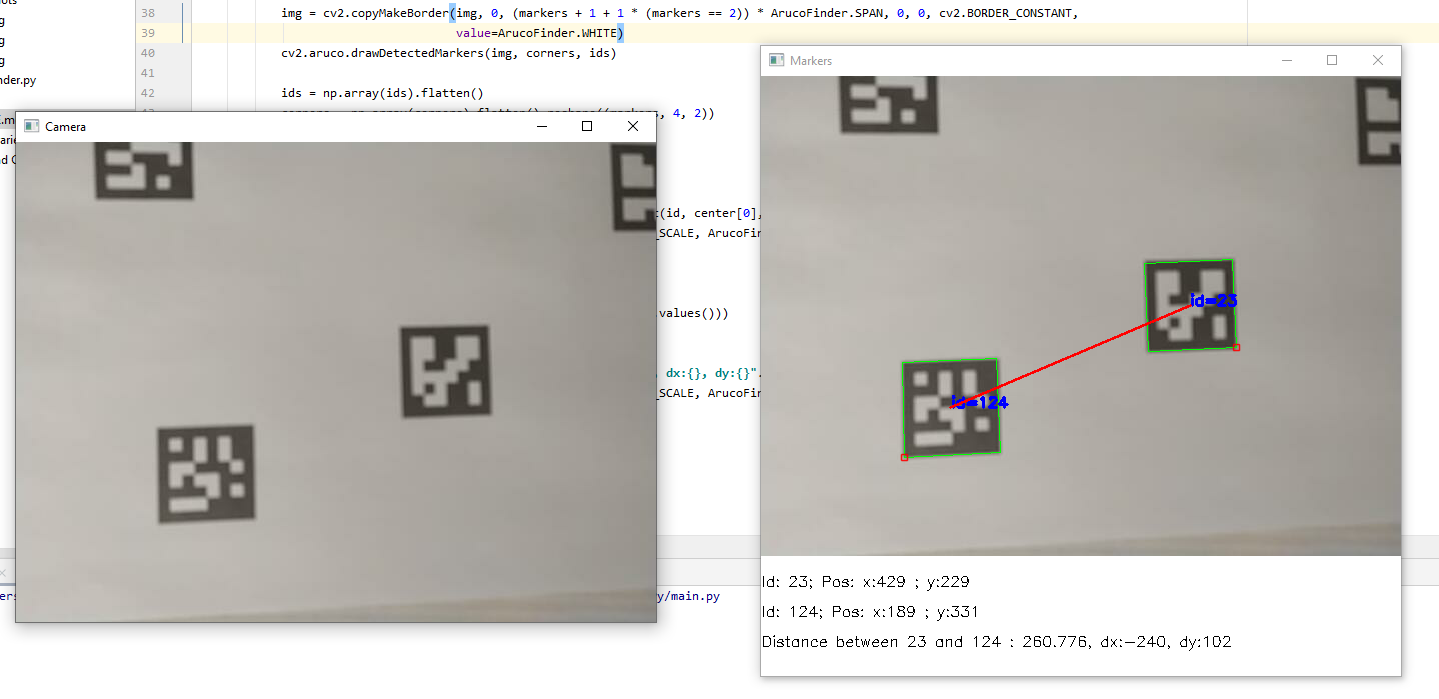
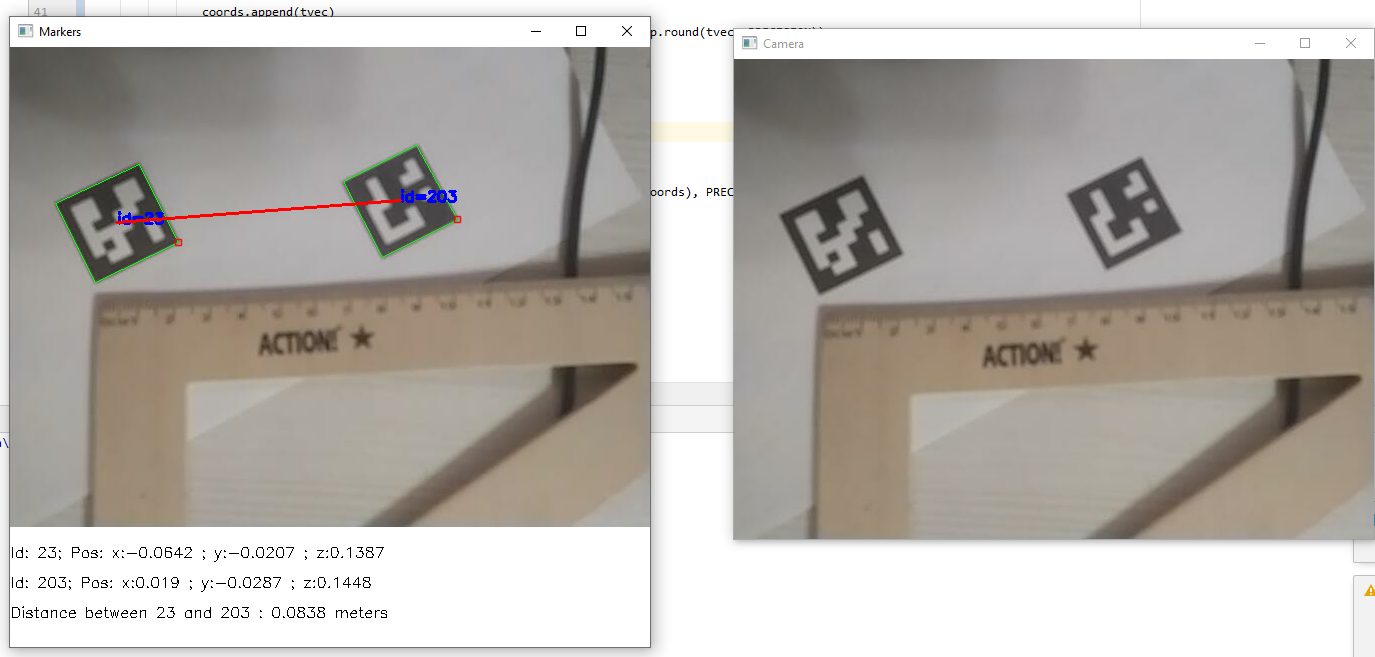
real 3d coordinates for markers

diff --git a/ArucoFinder.py b/ArucoFinder.py
@@ -1,59 +1,53 @@
 import cv2
-import math
+from cv2 import aruco
 import numpy as np
+from Settings import *
 
 
 class ArucoFinder:
-    SPAN = 30
-    FONT = cv2.FONT_HERSHEY_SIMPLEX
-    BLACK = (0, 0, 0)
-    WHITE = (0xff, 0xff, 0xff)
-    RED = (0, 0, 0xff)
-    TEXT_SCALE = 0.5
-
     def __init__(self,
-                 dict=cv2.aruco.Dictionary_get(cv2.aruco.DICT_6X6_1000),
-                 params=cv2.aruco.DetectorParameters_create()):
+                 dict=aruco.Dictionary_get(aruco.DICT_6X6_1000),
+                 params=aruco.DetectorParameters_create()):
         self.dict = dict
         self.params = params
 
     def find(self, img):
-        corners, ids, rejected = cv2.aruco.detectMarkers(img, self.dict, parameters=self.params)
+        corners, ids, rejected = aruco.detectMarkers(img, self.dict, parameters=self.params)
         return corners, ids
 
     @staticmethod
     def center(marker):
-        p1, p2 = marker[0], marker[2]
+        p1, p2 = marker[0][0], marker[0][2]
         return int(p1[0] + p2[0]) // 2, int(p1[1] + p2[1]) // 2
 
     @staticmethod
-    def dist(p1, p2):
-        dx, dy = p1[0] - p2[0], p1[1] - p2[1]
-        return dx, dy, math.sqrt(dx ** 2 + dy ** 2)
+    def dist(m1, m2):
+        return np.linalg.norm(m1 - m2)
 
-    def visualise(self, img, corners, ids):
+    def visualise(self, img, corners, ids, camMat, distCoeffs, markerLen):
         markers = len(corners)
         if markers > 0:
-            p = [0, img.shape[0] + ArucoFinder.SPAN]
-            img = cv2.copyMakeBorder(img, 0, (markers + 1 + 1 * (markers == 2)) * ArucoFinder.SPAN, 0, 0, cv2.BORDER_CONSTANT,
-                                     value=ArucoFinder.WHITE)
-            cv2.aruco.drawDetectedMarkers(img, corners, ids)
+            p = [0, img.shape[0] + SPAN]
+            img = cv2.copyMakeBorder(img, 0, (markers + 1 + 1 * (markers == 2)) * SPAN, 0, 0, cv2.BORDER_CONSTANT, value=WHITE)
+            aruco.drawDetectedMarkers(img, corners, ids)
 
             ids = np.array(ids).flatten()
-            corners = np.array(corners).flatten().reshape((markers, 4, 2))
             markersDict = dict(zip(ids, corners))
+            coords = []
             ids.sort()
             for id in ids:
-                center = ArucoFinder.center(markersDict[id])
-                cv2.putText(img, "Id: {}; Pos: x:{} ; y:{}".format(id, center[0], center[1]),
-                            p, ArucoFinder.FONT, ArucoFinder.TEXT_SCALE, ArucoFinder.BLACK)
-                p[1] += ArucoFinder.SPAN
+                rvec, tvec, objPoints = aruco.estimatePoseSingleMarkers(markersDict[id], markerLen, camMat, distCoeffs)
+                tvec = np.array(tvec).flatten()
+                coords.append(tvec)
+                cv2.putText(img, "Id: {}; Pos: x:{} ; y:{} ; z:{}".format(id, *np.round(tvec, PRECISION)),
+                            p, FONT, TEXT_SCALE, BLACK)
+                p[1] += SPAN
 
             if markers == 2:
-                c1, c2 = list(map(ArucoFinder.center, markersDict.values()))
-                cv2.line(img, c1, c2, ArucoFinder.RED, 2)
-                dx, dy, d = ArucoFinder.dist(c1, c2)
-                cv2.putText(img, "Distance between {} and {} : {}, dx:{}, dy:{}".format(ids[0], ids[1], round(d, 3), dx, dy),
-                            p, ArucoFinder.FONT, ArucoFinder.TEXT_SCALE, ArucoFinder.BLACK)
+                cv2.line(img, *list(map(ArucoFinder.center, corners)), RED, 2)
+                cv2.putText(img,
+                            "Distance between {} and {} : {} meters"
+                            .format(ids[0], ids[1], np.round(ArucoFinder.dist(*coords), PRECISION)),
+                            p, FONT, TEXT_SCALE, BLACK)
 
         return img

diff --git a/calib.py b/calib.py
@@ -1,0 +1,57 @@
+import pickle
+import cv2
+from cv2 import aruco
+from Settings import *
+
+CHARUCO_BOARD = aruco.CharucoBoard_create(
+    CHCOL,
+    CHROW,
+    CHSQUARE_LEN,
+    CHMARKER_LEN,
+    CHARUCO_DICT)
+
+CAM = "Camera"
+
+corners_all = []
+ids_all = []
+image_size = None
+
+cap = cv2.VideoCapture(CAM_PORT)
+key = None
+
+while key != ESC:
+    ret, img = cap.read()
+    gray = cv2.cvtColor(img, cv2.COLOR_BGR2GRAY)
+    corners, ids, rejected = aruco.detectMarkers(img, CHARUCO_DICT, parameters=CHPARAMS)
+    img = aruco.drawDetectedMarkers(img, corners, ids)
+    if key == SPACE and ids is not None:
+        response, charuco_corners, charuco_ids = aruco.interpolateCornersCharuco(corners, ids, gray, CHARUCO_BOARD)
+        if response >= CHSQUARES:
+            if image_size is None:
+                image_size = gray.shape[::-1]
+            corners_all.append(charuco_corners)
+            ids_all.append(charuco_ids)
+            img = aruco.drawDetectedCornersCharuco(img, charuco_corners, charuco_ids)
+            cv2.imshow(CAM, img)
+            print("Frame got successfully({})".format(len(ids_all)))
+            key = cv2.waitKey(0)
+
+    cv2.imshow(CAM, img)
+    key = cv2.waitKey(TIME_DELAY)
+
+cv2.destroyAllWindows()
+
+if image_size is None:
+    print('Calibration failed')
+    exit()
+
+calibration, cameraMatrix, distCoeffs, rvecs, tvecs = \
+    aruco.calibrateCameraCharuco(corners_all, ids_all, CHARUCO_BOARD, image_size, None, None)
+
+print('Camera matrix:\n', cameraMatrix)
+print('Distortion coefficients:\n', distCoeffs)
+
+with open(CALIB_FILE, 'wb') as f:
+    pickle.dump((cameraMatrix, distCoeffs), f)
+
+print('Calibration successful, saved in:', CALIB_FILE)

diff --git a/Settings.py b/Settings.py
@@ -1,0 +1,28 @@
+import cv2
+from cv2 import aruco
+
+# Настройка доски ChAruco
+CHROW = 7  # ширина (в клетках)
+CHCOL = 5  # высота (в клетках)
+CHSQUARE_LEN = 0.037  # длина клетки в метрах
+CHMARKER_LEN = 0.022  # длина маркера в метрах (на доске)
+CHSQUARES = (CHCOL - 1) * (CHROW - 1)
+CHARUCO_DICT = aruco.Dictionary_get(aruco.DICT_6X6_1000)  # Словарь маркеров на доске
+CHPARAMS = aruco.DetectorParameters_create()
+#
+MARKER_LEN = 0.026  # длина маркера в метрах (при работе)
+
+CAM_PORT = 1
+CALIB_FILE = 'calib.pckl'
+
+ESC = 27
+SPACE = 32
+TIME_DELAY = 10
+
+SPAN = 30
+FONT = cv2.FONT_HERSHEY_SIMPLEX
+BLACK = (0, 0, 0)
+WHITE = (0xff, 0xff, 0xff)
+RED = (0, 0, 0xff)
+TEXT_SCALE = 0.5
+PRECISION = 3

diff --git a/main.py b/main.py
@@ -1,9 +1,9 @@
 import cv2
 from ArucoFinder import ArucoFinder
+import numpy as np
+import pickle
+from Settings import *
 
-CAM_PORT = 1
-ESC = 27
-TIME_DELAY = 10
 CAM = "Camera"
 MARKERS = "Markers"
 
@@ -11,10 +11,13 @@ cap = cv2.VideoCapture(CAM_PORT)
 finder = ArucoFinder()
 key = None
 
+with open(CALIB_FILE, 'rb') as f:
+    cameraMatrix, distCoeffs = pickle.load(f)
+
 while key != ESC:
     ret, img = cap.read()
     corners, ids = finder.find(img)
-    visual = finder.visualise(img, corners, ids)
+    visual = finder.visualise(img, corners, ids, cameraMatrix, distCoeffs, MARKER_LEN)
     cv2.imshow(CAM, img)
     cv2.imshow(MARKERS, visual)
     key = cv2.waitKey(TIME_DELAY)

diff --git a/README.md b/README.md
@@ -1,12 +1,27 @@
-#### Поведение:
-* 1 или более двух маркеров - вывод их позиций по порядку кода
-* 2 маркера - вывод позиций и расстояния между ними
+#### Настройка
+Константы - в файле `Settings.py`
 
-#### Тип маркеров
-\- указывается в конструкторе класса ArucoFinder (по умолчанию 6X6_1000)
+#### Калибровка 
+Калибровка происходит при помощи доски ChAruco с известными размерами клеток и маркеров
+* Указать в `Settings.py` физические параметры доски ChAruco (по умолчанию указаны параметры для распечатанной на А4 `charucoboard.jpg`)
+* Запустить `calib.py`, сделать 10-20 снимков под разными углами с различным расстоянием до камеры, 
+желательно на некоторых снимках расположить доску в углах изображения. Для снимка - взять в кадр 
+всю доску и нажать `SPACE`, об удачной съемке будет оповещение в консоль, для продолжения нажать любую клавишу.
+Для окончания калибровки нажать `ESC`
 
 #### Запуск
+Указать в `Settings.py` физическую длину маркеров с которыми будет происходить работа 
+(по умолчанию указаны параметры для распечатанной на А4 `sample.png`)
+* Запуск программы: 
 ```
 python3 main.py
 ```
-Порт камеры указывается в константе ```CAM_PORT```
+Порт камеры указывается в константе `CAM_PORT`
+
+#### Поведение:
+* 1 или более двух маркеров - вывод их координат (в метрах) в координатной системе камеры по порядку кода 
+* 2 маркера - вывод позиций и расстояния (в метрах) между ними
+
+#### Маркеры
+* тип указывается в конструкторе класса `ArucoFinder` (по умолчанию 6X6_1000) 
+* длина в `Settings.py`
